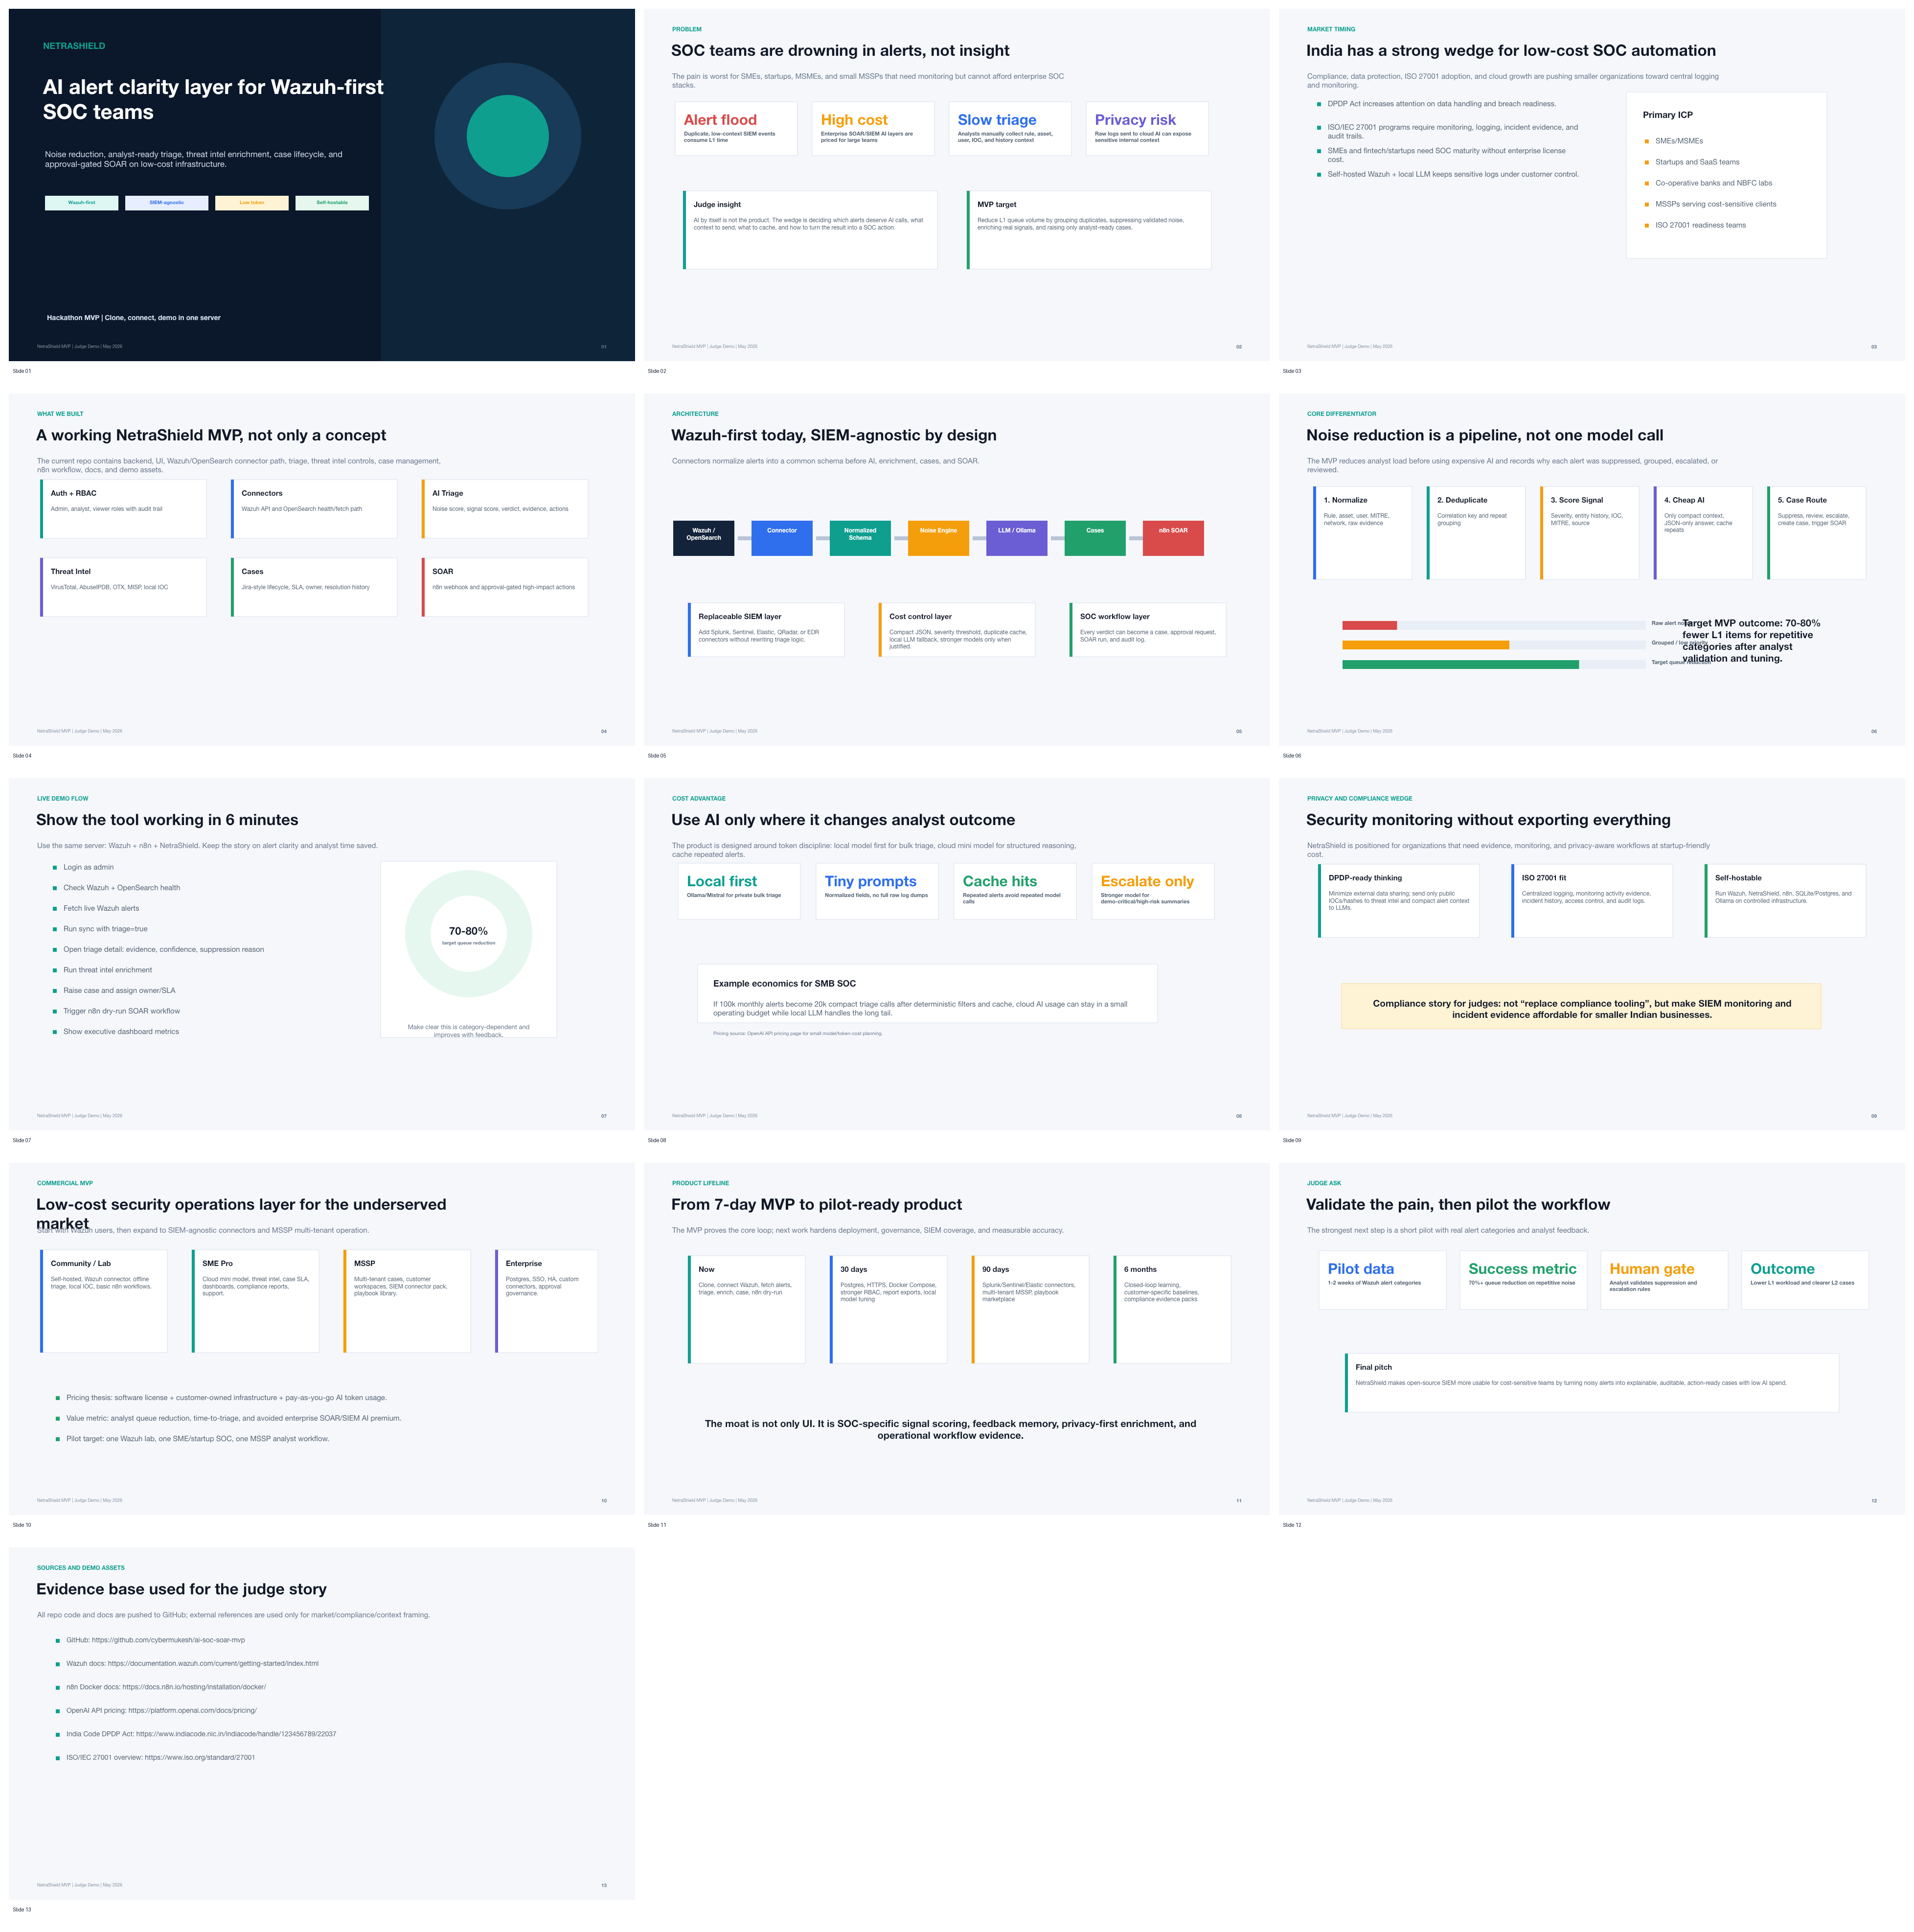
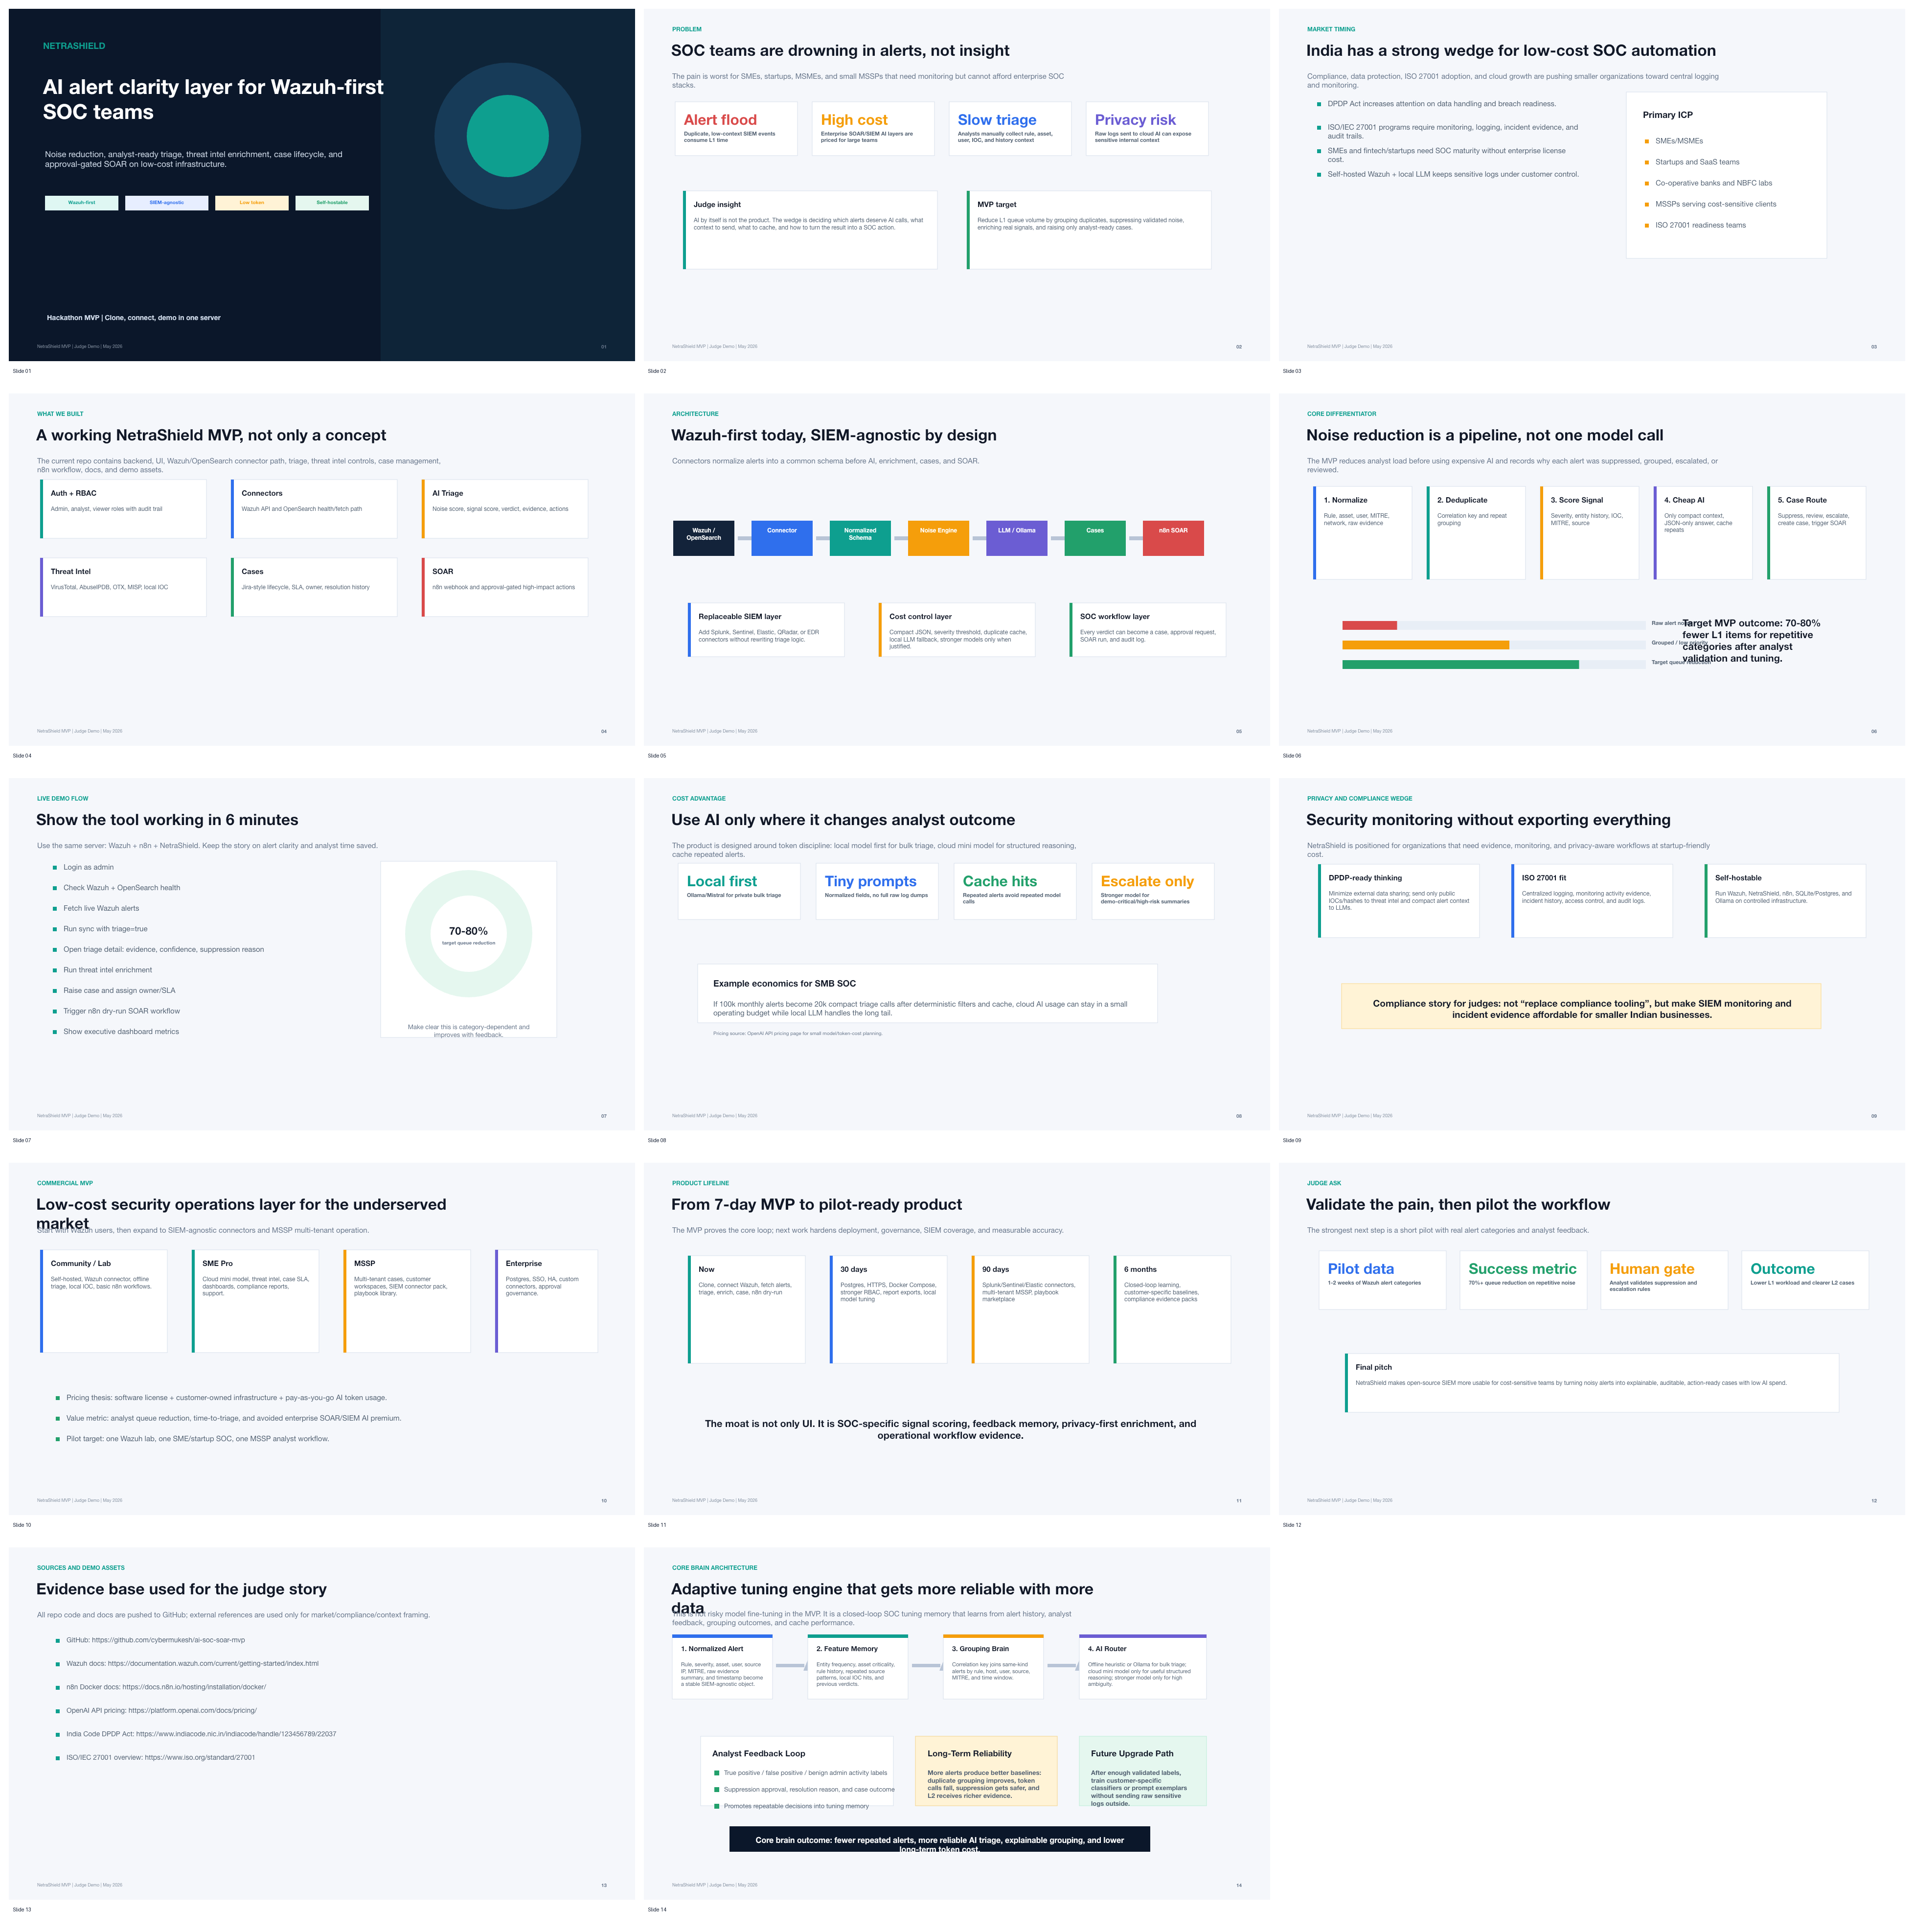
Add adaptive tuning engine to pitch deck

Changed region(s): [[0.343, 0.81, 0.6549, 0.9658]]

diff --git a/docs/FINAL_JUDGE_DEMO_CHECKLIST.md b/docs/FINAL_JUDGE_DEMO_CHECKLIST.md
@@ -127,6 +127,9 @@ curl -s -H "Authorization: Bearer $APP_TOKEN" \
 - Wedge: Wazuh-first, self-hosted AI triage for cost-sensitive SOC teams.
 - Differentiator: reduce calls before AI with grouping, local model fallback,
   compact prompts, cache, public IOC enrichment, and case workflow.
+- Core brain: adaptive tuning memory improves grouping and triage reliability
+  as more alerts, analyst feedback, suppression approvals, and case outcomes
+  are ingested.
 - India angle: privacy-aware operations for DPDP-era security monitoring and
   ISO 27001 logging/monitoring evidence.
 - Business: low product price plus customer-owned infra and optional token usage.